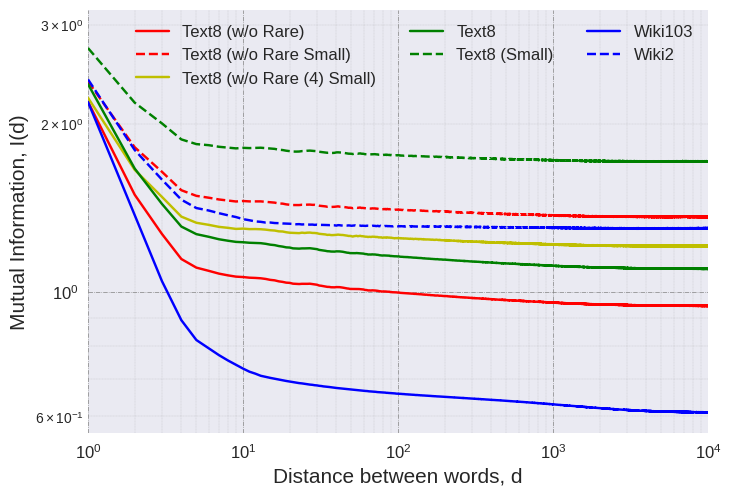
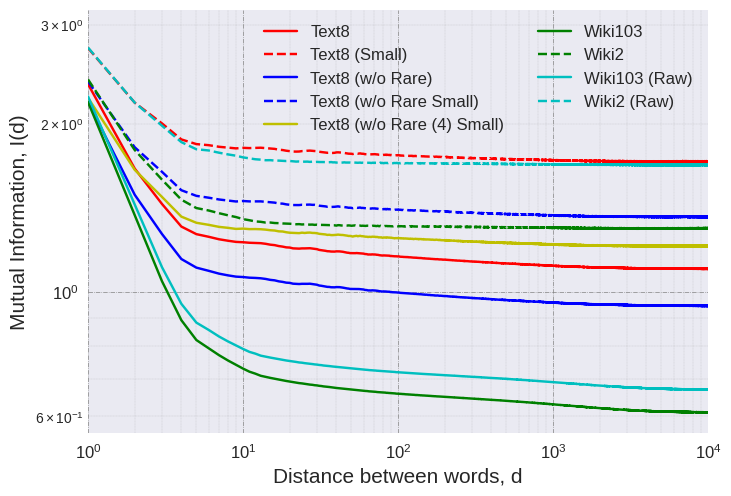
Up

diff --git a/paper_related/plot_words.py b/paper_related/plot_words.py
@@ -9,7 +9,7 @@ from matplotlib.text import OffsetFrom
 filenames = ["penn_tree","text8","text8_wor","text8_subset","text8_subset_wor","wiki2","wiki2_raw","wiki2_cleaned", \
             "wiki19","wiki19_text8","wiki103","wiki103_raw","wiki103_cleaned","wiki_sample_1","wiki_sample_2", \
             "wiki_ptb_size_1","wiki_ptb_size_2","wiki_ptb_vocab_1","wiki_ptb_vocab_2","10kGNAD","wiki_sample_3", \
-            "wiki_sample_4","wiki19_text8_wor","text8_subset_wor_4","text8_wor_5"]
+            "wiki_sample_4","wiki19_text8_wor","text8_subset_wor_4"]
 
 all_mi = []
 all_hx = []
@@ -57,37 +57,41 @@ with plt.style.context(('seaborn')):
     # plt.figure(figsize=(20, 14), dpi=100)
     ax = plt.axes()
 
-    plt.loglog(np.arange(1,len(all_mi[0])+1), all_mi[0], label="PTB")
+    # plt.loglog(np.arange(1,len(all_mi[0])+1), all_mi[0], label="PTB")
 
-    plt.loglog(np.arange(1,len(all_mi[1])+1), all_mi[1], label="Text8")
-    plt.loglog(np.arange(1,len(all_mi[2])+1), all_mi[2], label="Text8 (w/o Rare)")
-    plt.loglog(np.arange(1,len(all_mi[3])+1), all_mi[3], label="Text8 (Small)")
-    plt.loglog(np.arange(1,len(all_mi[4])+1), all_mi[4], label="Text8 (w/o Rare Small)")
-    plt.loglog(np.arange(1,len(all_mi[23])+1), all_mi[23], label="Text8 (w/o Rare (4) Small)")
+    plt.loglog(np.arange(1,len(all_mi[1])+1), all_mi[1], 'r-', label="Text8")
+    plt.loglog(np.arange(1,len(all_mi[3])+1), all_mi[3], 'r--', label="Text8 (Small)")
 
-    plt.loglog(np.arange(1,len(all_mi[5])+1), all_mi[5], label="Wiki2")
-    plt.loglog(np.arange(1,len(all_mi[6])+1), all_mi[6], label="Wiki2 (Raw)")
-    plt.loglog(np.arange(1,len(all_mi[7])+1), all_mi[7], label="Wiki2 (Cleaned)")
+    plt.loglog(np.arange(1,len(all_mi[2])+1), all_mi[2], 'b-', label="Text8 (w/o Rare)")
+    plt.loglog(np.arange(1,len(all_mi[4])+1), all_mi[4], 'b--', label="Text8 (w/o Rare Small)")
 
-    plt.loglog(np.arange(1,len(all_mi[8])+1), all_mi[8], label="Wiki19")
-    plt.loglog(np.arange(1,len(all_mi[9])+1), all_mi[9], label="Wiki19 (Text8-like)")
-    plt.loglog(np.arange(1,len(all_mi[22])+1), all_mi[22], label="Wiki19 (Text8-like w/o Rare)")
+    plt.loglog(np.arange(1,len(all_mi[23])+1), all_mi[23], 'y-', label="Text8 (w/o Rare (4) Small)")
 
-    plt.loglog(np.arange(1,len(all_mi[10])+1), all_mi[10], "b-", label="Wiki103")
-    plt.loglog(np.arange(1,len(all_mi[11])+1), all_mi[11], label="Wiki103 (Raw)")
-    plt.loglog(np.arange(1,len(all_mi[12])+1), all_mi[12], label="Wiki103 (Cleaned)")
+    # plt.loglog(np.arange(1,len(all_mi[7])+1), all_mi[7], label="Wiki2 (Cleaned)")
 
-    plt.loglog(np.arange(1,len(all_mi[13])+1), all_mi[13], label="Wiki Sample 1")
-    plt.loglog(np.arange(1,len(all_mi[14])+1), all_mi[14], label="Wiki Sample 2")
-    plt.loglog(np.arange(1,len(all_mi[20])+1), all_mi[20], label="Wiki Sample 3")
-    plt.loglog(np.arange(1,len(all_mi[21])+1), all_mi[21], label="Wiki Sample 4")
+    # plt.loglog(np.arange(1,len(all_mi[8])+1), all_mi[8], label="Wiki19")
+    # plt.loglog(np.arange(1,len(all_mi[9])+1), all_mi[9], label="Wiki19 (Text8-like)")
+    # plt.loglog(np.arange(1,len(all_mi[22])+1), all_mi[22], label="Wiki19 (Text8-like w/o Rare)")
 
-    plt.loglog(np.arange(1,len(all_mi[15])+1), all_mi[15], label="Wiki (PTB Size)")
-    plt.loglog(np.arange(1,len(all_mi[16])+1), all_mi[16], label="Wiki (PTB Size 2)")
-    plt.loglog(np.arange(1,len(all_mi[17])+1), all_mi[17], label="Wiki (PTB Vocabulary)")
-    plt.loglog(np.arange(1,len(all_mi[18])+1), all_mi[18], label="Wiki (PTB Vocabulary 2)")
+    plt.loglog(np.arange(1,len(all_mi[10])+1), all_mi[10], 'g-', label="Wiki103")
+    plt.loglog(np.arange(1,len(all_mi[5])+1), all_mi[5], 'g--', label="Wiki2")
 
-    plt.loglog(np.arange(1,len(all_mi[19])+1), all_mi[19], label="German Text")
+    plt.loglog(np.arange(1,len(all_mi[11])+1), all_mi[11], 'c-', label="Wiki103 (Raw)")
+    plt.loglog(np.arange(1,len(all_mi[6])+1), all_mi[6], 'c--', label="Wiki2 (Raw)")
+
+    # plt.loglog(np.arange(1,len(all_mi[12])+1), all_mi[12], label="Wiki103 (Cleaned)")
+
+    # plt.loglog(np.arange(1,len(all_mi[13])+1), all_mi[13], label="Wiki Sample 1")
+    # plt.loglog(np.arange(1,len(all_mi[14])+1), all_mi[14], label="Wiki Sample 2")
+    # plt.loglog(np.arange(1,len(all_mi[20])+1), all_mi[20], label="Wiki Sample 3")
+    # plt.loglog(np.arange(1,len(all_mi[21])+1), all_mi[21], label="Wiki Sample 4")
+
+    # plt.loglog(np.arange(1,len(all_mi[15])+1), all_mi[15], label="Wiki (PTB Size)")
+    # plt.loglog(np.arange(1,len(all_mi[16])+1), all_mi[16], label="Wiki (PTB Size 2)")
+    # plt.loglog(np.arange(1,len(all_mi[17])+1), all_mi[17], label="Wiki (PTB Vocabulary)")
+    # plt.loglog(np.arange(1,len(all_mi[18])+1), all_mi[18], label="Wiki (PTB Vocabulary 2)")
+
+    # plt.loglog(np.arange(1,len(all_mi[19])+1), all_mi[19], label="German Text")
 
     plt.tick_params(labelsize='large', width=5)
     plt.grid(True)
@@ -120,6 +124,6 @@ with plt.style.context(('seaborn')):
     # ax.annotate('0.029083', xy=(3,all_mi[20][3]), size=10)
     # ax.annotate('0.020500', xy=(3,all_mi[21][3]), size=10)
 
-    lgd = ax.legend(loc='upper right', shadow=True, fancybox=True, ncol=3, numpoints=1, prop={'size': 12})
-    plt.savefig('lm_words', bbox_extra_artists=(lgd,), bbox_inches='tight')
+    lgd = ax.legend(loc='upper right', shadow=True, fancybox=True, ncol=2, numpoints=1, prop={'size': 12})
+    plt.savefig('lm_words_subset', bbox_extra_artists=(lgd,), bbox_inches='tight')
     plt.show()

diff --git a/paper_related/co-occurrence/compute_percentage.py b/paper_related/co-occurrence/compute_percentage.py
@@ -1,0 +1,55 @@
+total_text8 = 74785+287560+64437960321+1617650+2067996+98858
+total_text8_small = 9947+46968+7947943084+336648+525964+18881
+total_text8_small_wor = 10452+52093+1268621946+340784+434152+1843
+total_text8_small_wor_4 = 10716+53972+621344865+328279+390252+222
+
+sp_text8 = 98858
+sp_text8_small = 18881
+sp_text8_small_wor = 1843
+sp_text8_small_wor_4 = 222
+
+mp_text8 = 2067996
+mp_text8_small = 525964
+mp_text8_small_wor = 434152
+mp_text8_small_wor_4 = 390252
+
+wp_text8 = 1617650
+wp_text8_small = 336648
+wp_text8_small_wor = 340784
+wp_text8_small_wor_4 = 328279
+
+sn_text8 = 74785
+sn_text8_small = 9947
+sn_text8_small_wor = 10452
+sn_text8_small_wor_4 = 10716
+
+wn_text8 = 287560
+wn_text8_small = 46968
+wn_text8_small_wor = 52093
+wn_text8_small_wor_4 = 53972
+
+
+print(sp_text8_small/total_text8_small*100)
+print(sp_text8_small_wor/total_text8_small_wor*100)
+print(sp_text8/total_text8*100)
+print(sp_text8_small_wor_4/total_text8_small_wor_4*100)
+print()
+print(mp_text8_small/total_text8_small*100)
+print(mp_text8_small_wor/total_text8_small_wor*100)
+print(mp_text8/total_text8*100)
+print(mp_text8_small_wor_4/total_text8_small_wor_4*100)
+print()
+print(wp_text8_small/total_text8_small*100)
+print(wp_text8_small_wor/total_text8_small_wor*100)
+print(wp_text8/total_text8*100)
+print(wp_text8_small_wor_4/total_text8_small_wor_4*100)
+print()
+print(sn_text8_small/total_text8_small*100)
+print(sn_text8_small_wor/total_text8_small_wor*100)
+print(sn_text8/total_text8*100)
+print(sn_text8_small_wor_4/total_text8_small_wor_4*100)
+print()
+print(wn_text8_small/total_text8_small*100)
+print(wn_text8_small_wor/total_text8_small_wor*100)
+print(wn_text8/total_text8*100)
+print(wn_text8_small_wor_4/total_text8_small_wor_4*100)
